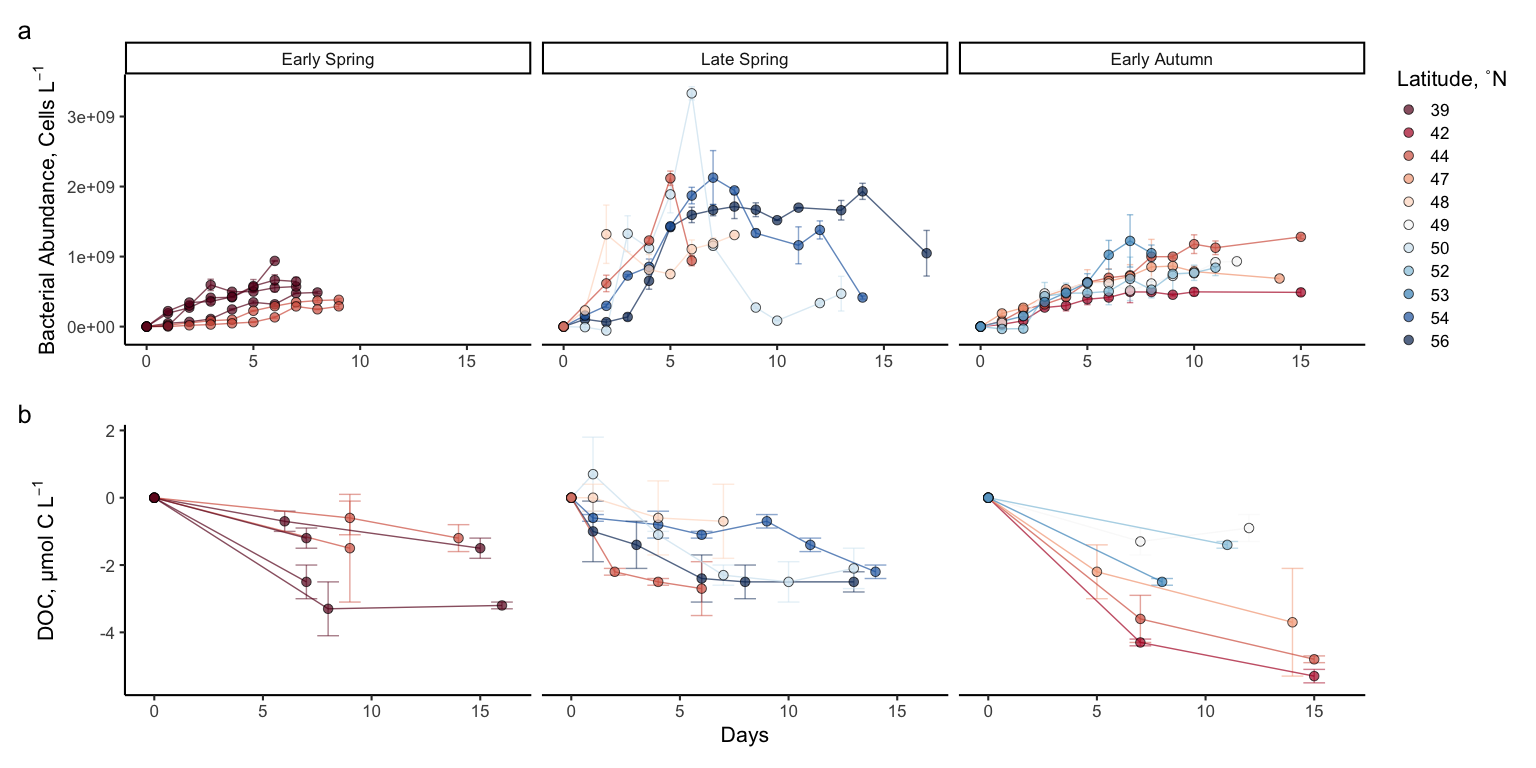
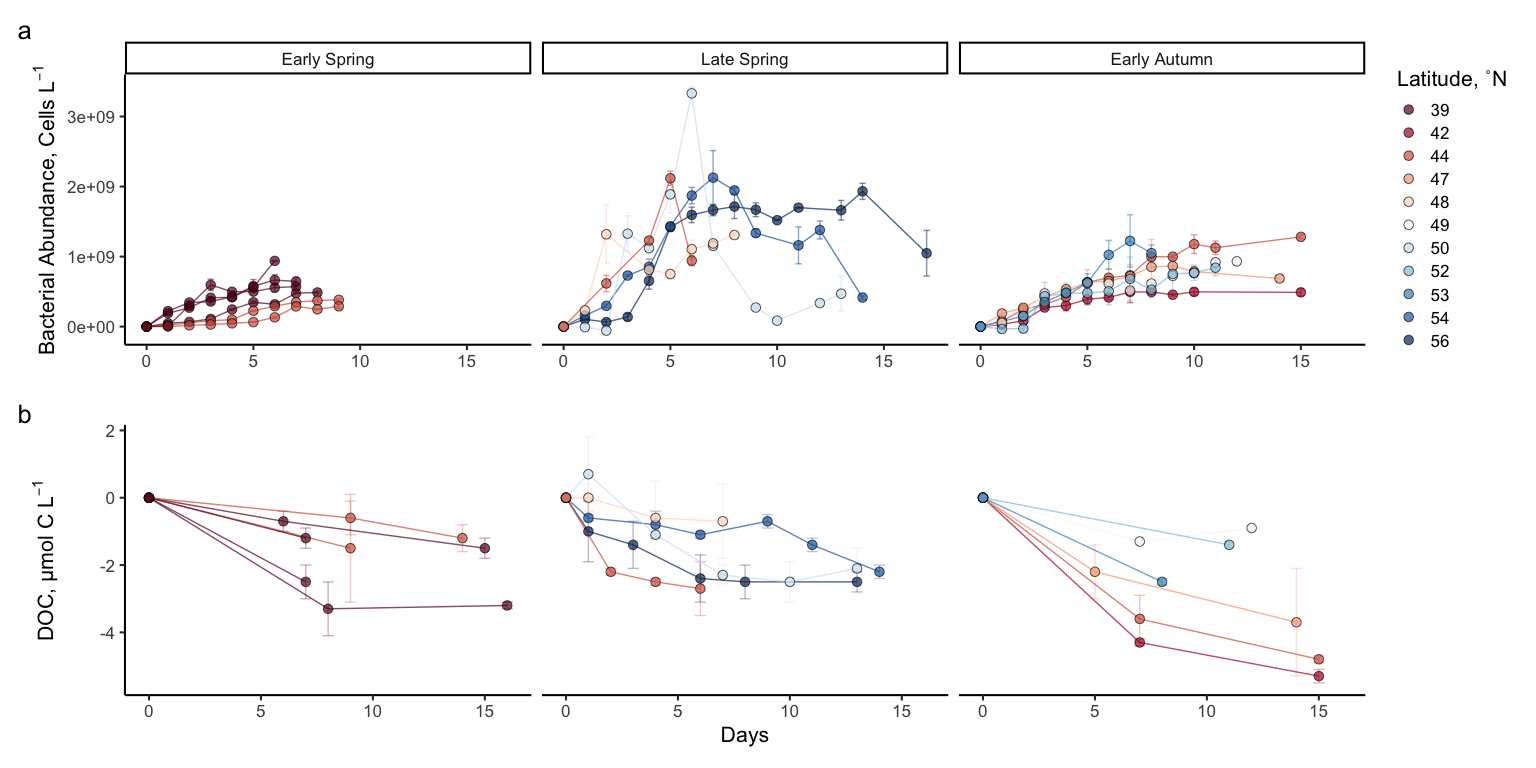
extra plots for presentations

diff --git a/rmd/BCD_DOC-Bioavailability.md b/rmd/BCD_DOC-Bioavailability.md
@@ -375,7 +375,7 @@ doc_curves2 <-  bge %>%
   distinct() %>% 
   # filter(!Cruise == "AT34" | !S,tation == 3) %>% #did not calc bge or cell resp due to data coming from post stationary
   ggplot(aes(x = Days, y = norm_doc, group = interaction(Season, Station))) +
-  geom_errorbar(aes(ymin = norm_doc - sd_norm_doc, ymax = norm_doc + sd_norm_doc, color = factor(degree_bin)), width = 1, alpha = 0.5) +
+  geom_errorbar(aes(ymin = norm_doc - sd_norm_doc, ymax = norm_doc + sd_norm_doc, color = factor(degree_bin)), width = 0.5, alpha = 0.3) +
   geom_line(aes(color = factor(degree_bin)), alpha = 0.7) +
   geom_point(aes(fill = factor(degree_bin)), size = 3, shape = 21, alpha = 0.7) +
   scale_color_brewer(palette = "RdBu") +
@@ -550,9 +550,22 @@ bge_box <- bge_summary %>%
 
 ![](BCD_DOC-Bioavailability_files/figure-gfm/unnamed-chunk-21-1.png)<!-- -->
 
+``` r
+ba_curves / doc_curves2 + bge_box +
+   plot_annotation(tag_levels = "a") &
+  plot_layout(guides = "collect") +
+  theme(plot.tag = element_text(size = 20))
+```
+
+![](BCD_DOC-Bioavailability_files/figure-gfm/unnamed-chunk-22-1.png)<!-- -->
+
 # Experiments at 44˚N
 
 ![](BCD_DOC-Bioavailability_files/figure-gfm/Remin%20plots-1.png)<!-- -->
+
+![](BCD_DOC-Bioavailability_files/figure-gfm/Remin%20plots%20initial-1.png)<!-- -->
+
+![](BCD_DOC-Bioavailability_files/figure-gfm/Remin%20plots2-1.png)<!-- -->
 
 # Bioavailability & BGE Tables
 
@@ -778,3 +791,9 @@ compare_means(bcd.npp_global_mean ~ Season, bcd.summary)
     ## 4 bcd.npp_global… Late Spring Early Aut… 0.132   0.26  0.1320   ns       Wilcox…
     ## 5 bcd.npp_global… Late Spring Early Win… 0.00216 0.013 0.0022   **       Wilcox…
     ## 6 bcd.npp_global… Early Autu… Early Win… 0.0411  0.16  0.0411   *        Wilcox…
+
+## bp/bcd profile
+
+![](BCD_DOC-Bioavailability_files/figure-gfm/unnamed-chunk-26-1.png)<!-- -->
+
+![](BCD_DOC-Bioavailability_files/figure-gfm/unnamed-chunk-27-1.png)<!-- -->
